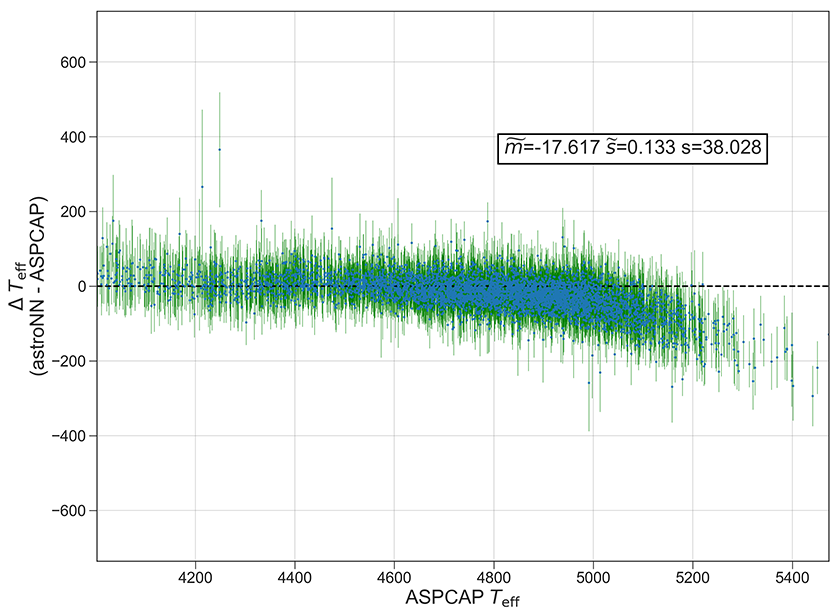
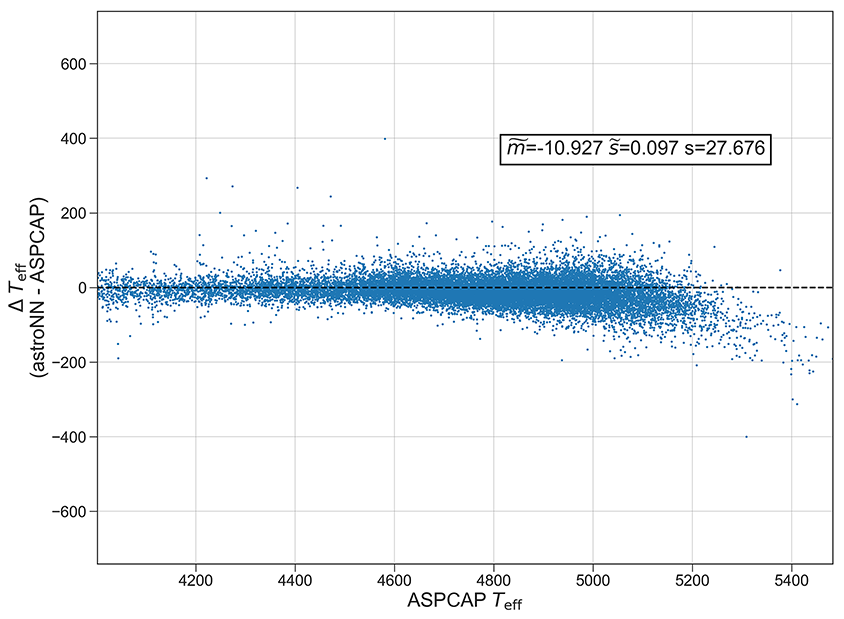
fix shallow copy issue

diff --git a/docs/searchindex.js b/docs/searchindex.js
@@ -1,1 +1,1 @@
-Search.setIndex({docnames:["acknowledgments","astroNN","astroNN.apogee","astroNN.datasets","astroNN.gaia","astroNN.models","compile_datasets","history","index","modules","neuralnets/BCNN","neuralnets/CNN","neuralnets/VAE","neuralnets/neural_network","neuralnets/starnet","neuralnets/vae_demo","quick_start","tools_apogee","tools_gaia"],envversion:53,filenames:["acknowledgments.rst","astroNN.rst","astroNN.apogee.rst","astroNN.datasets.rst","astroNN.gaia.rst","astroNN.models.rst","compile_datasets.rst","history.rst","index.rst","modules.rst","neuralnets\\BCNN.rst","neuralnets\\CNN.rst","neuralnets\\VAE.rst","neuralnets\\neural_network.rst","neuralnets\\starnet.rst","neuralnets\\vae_demo.rst","quick_start.rst","tools_apogee.rst","tools_gaia.rst"],objects:{"":{astroNN:[1,0,0,"-"]},"astroNN.apogee":{apogee_shared:[2,0,0,"-"],cannon:[2,0,0,"-"],chips:[2,0,0,"-"],downloader:[2,0,0,"-"]},"astroNN.apogee.apogee_shared":{apogee_default_dr:[2,1,1,""],apogee_env:[2,1,1,""],apogeeid_digit:[2,1,1,""]},"astroNN.apogee.chips":{chips_pix_info:[2,1,1,""],chips_split:[2,1,1,""],continuum:[2,1,1,""],gap_delete:[2,1,1,""],wavelength_solution:[2,1,1,""]},"astroNN.apogee.downloader":{allstar:[2,1,1,""],allstarcannon:[2,1,1,""],allvisit:[2,1,1,""],apogee_vac_rc:[2,1,1,""],combined_spectra:[2,1,1,""],visit_spectra:[2,1,1,""]},"astroNN.datasets":{apogee_rc:[3,0,0,"-"],apokasc:[3,0,0,"-"],h5:[3,0,0,"-"],xmatch:[3,0,0,"-"]},"astroNN.datasets.apogee_rc":{apogee_rc:[3,1,1,""]},"astroNN.datasets.apokasc":{apokasc_load:[3,1,1,""],apokasc_logg:[3,1,1,""]},"astroNN.datasets.h5":{H5Compiler:[3,2,1,""],H5Loader:[3,2,1,""]},"astroNN.datasets.h5.H5Compiler":{apstar_normalization:[3,3,1,""],compile:[3,3,1,""],filter_apogeeid_list:[3,3,1,""],load_allstar:[3,3,1,""]},"astroNN.datasets.h5.H5Loader":{load:[3,3,1,""]},"astroNN.datasets.xmatch":{xmatch:[3,1,1,""]},"astroNN.gaia":{downloader:[4,0,0,"-"],gaia_shared:[4,0,0,"-"]},"astroNN.gaia.downloader":{anderson_2017_parallax:[4,1,1,""],gaia_source:[4,1,1,""],tgas:[4,1,1,""],tgas_load:[4,1,1,""]},"astroNN.gaia.gaia_shared":{absmag_to_pc:[4,1,1,""],gaia_default_dr:[4,1,1,""],gaia_env:[4,1,1,""],mag_to_absmag:[4,1,1,""]},"astroNN.models":{bayesian_cnn:[5,0,0,"-"],cnn:[5,0,0,"-"],load_folder:[5,1,1,""],models_shared:[5,0,0,"-"],starnet:[5,0,0,"-"],vae:[5,0,0,"-"]},"astroNN.models.bayesian_cnn":{BCNN:[5,2,1,""],DataGenerator:[5,2,1,""],PredictiveEntropy:[5,2,1,""],PredictiveLinear:[5,2,1,""],TimeDistributedMean:[5,2,1,""]},"astroNN.models.bayesian_cnn.BCNN":{compile:[5,3,1,""],create_epistemic_uncertainty_model:[5,3,1,""],model:[5,3,1,""],predict:[5,3,1,""],test:[5,3,1,""],train:[5,3,1,""]},"astroNN.models.bayesian_cnn.DataGenerator":{generate:[5,3,1,""]},"astroNN.models.bayesian_cnn.PredictiveEntropy":{build:[5,3,1,""],call:[5,3,1,""],compute_output_shape:[5,3,1,""]},"astroNN.models.bayesian_cnn.PredictiveLinear":{build:[5,3,1,""],call:[5,3,1,""],compute_output_shape:[5,3,1,""]},"astroNN.models.bayesian_cnn.TimeDistributedMean":{build:[5,3,1,""],call:[5,3,1,""],compute_output_shape:[5,3,1,""]},"astroNN.models.cnn":{CNN:[5,2,1,""],DataGenerator:[5,2,1,""]},"astroNN.models.cnn.CNN":{compile:[5,3,1,""],model:[5,3,1,""],test:[5,3,1,""],train:[5,3,1,""]},"astroNN.models.cnn.DataGenerator":{generate:[5,3,1,""]},"astroNN.models.models_shared":{ModelStandard:[5,2,1,""],target_conversion:[5,1,1,""]},"astroNN.models.models_shared.ModelStandard":{aspcap_residue_plot:[5,3,1,""],bayes_crossentropy_wrapper:[5,3,1,""],categorical_cross_entropy:[5,4,1,""],compile:[5,3,1,""],gaussian_crossentropy:[5,4,1,""],hyperparameter_writer:[5,3,1,""],jacobian:[5,3,1,""],mean_squared_error:[5,4,1,""],model:[5,3,1,""],model_existence:[5,3,1,""],mse_var_wrapper:[5,4,1,""],plot_model:[5,3,1,""],pre_training_checklist:[5,3,1,""],test:[5,3,1,""],train:[5,3,1,""]},"astroNN.models.starnet":{DataGenerator:[5,2,1,""],StarNet:[5,2,1,""]},"astroNN.models.starnet.DataGenerator":{generate:[5,3,1,""]},"astroNN.models.starnet.StarNet":{compile:[5,3,1,""],model:[5,3,1,""],test:[5,3,1,""],train:[5,3,1,""]},"astroNN.models.vae":{CustomVariationalLayer:[5,2,1,""],DataGenerator:[5,2,1,""],VAE:[5,2,1,""]},"astroNN.models.vae.CustomVariationalLayer":{call:[5,3,1,""],vae_loss:[5,4,1,""]},"astroNN.models.vae.DataGenerator":{generate:[5,3,1,""]},"astroNN.models.vae.VAE":{compile:[5,3,1,""],model:[5,3,1,""],plot_latent:[5,3,1,""],sampling:[5,3,1,""],test:[5,3,1,""],test_encoder:[5,3,1,""],train:[5,3,1,""]},astroNN:{apogee:[2,0,0,"-"],datasets:[3,0,0,"-"],gaia:[4,0,0,"-"],models:[5,0,0,"-"]}},objnames:{"0":["py","module","Python module"],"1":["py","function","Python function"],"2":["py","class","Python class"],"3":["py","method","Python method"],"4":["py","staticmethod","Python static method"]},objtypes:{"0":"py:module","1":"py:function","2":"py:class","3":"py:method","4":"py:staticmethod"},terms:{"2gb":16,"2m00003088":16,"2m21353892":16,"8000s":2,"8gb":16,"case":[6,10,11,12,13],"class":[3,5],"default":[2,4,5,6,10,11,14,17],"final":7,"float":4,"function":[7,16,17],"import":[3,6,7,10,11,12,13,14,17,18],"int":[2,4],"long":6,"new":7,"return":[2,4,18],"static":5,"true":[5,6,10,11],And:[10,11,12,14],But:[10,11],For:[6,8,10,16,17,18],SAS:16,The:[2,7,16],__path__:17,_contmask:17,_run:13,abc:5,abov:16,absmag:4,absmag_to_pc:4,absolut:4,abund:[2,6],access:[7,13,17],accord:2,account:3,acknowledg:8,activ:[8,10,11,16],adavantag:7,add:7,added:7,after:[8,10,11,12,16],aka:[10,11],aleator:7,all:[6,7,10,11],allstar:[2,16],allstarcannon:[2,16],allstarcanon:2,allvisit:[2,16],alpha:6,also:[6,10,11],althought:[10,11,12],alwai:16,amd:16,amount:[17,18],anaconda:16,analysi:[0,7,8],analysisa:7,anderson:[0,4,6],anderson_2017_parallax:[0,4,18],angular:3,ani:[6,10,11,12],api:7,apo1m:16,apo25m:16,apoge:[1,8,9,16],apogee_chip:2,apogee_cnn_model_1:7,apogee_default_dr:2,apogee_dr:6,apogee_env:2,apogee_id:2,apogee_rc:[1,9],apogee_rc_absmag:3,apogee_shar:[1,9],apogee_train:7,apogee_vac_rc:2,apogeeid:2,apogeeid_digit:2,apokasc:[1,7,9],apokasc_load:3,apokasc_logg:3,appar:6,appear:4,applic:8,approx:6,apstar:16,apstar_norm:3,apstarwavegrid:2,archetitur:7,architectur:[5,16],arcsec:3,arg:5,arguement:[2,4],arr:2,arrai:[2,4,6,11],arxiv:[0,5,6,7,8],ascens:3,aspcap:[2,6,10,12],aspcap_residue_plot:5,aspcapflagcut:6,aspcapstar:16,assum:3,astronn:[0,6,7,11,12,14,16,17,18],astronn_0101_run001:[10,11,12,13],astronn_:13,astronn_neuralnet:13,astronn_tutori:7,astronom:8,astronomi:8,astroqueri:16,attent:7,attribut:6,autoencod:[5,8],automat:13,avali:6,avx2:16,backend:16,background:2,backpropag:8,band:18,base:[0,3,5],basic:[7,16],batch_siz:[5,10,11],bayes_crossentropy_wrapp:5,bayesian:[0,5,8,12],bayesian_cnn:[1,9],bcnn:[5,10],bcnn_net:10,becaus:[2,10,11],befor:[6,7,17],below:[6,16],best:[2,12],beta:16,better:7,between:[2,3,17],bit:16,blackbox:7,blue:2,bnn:10,bolean:4,bound:6,bovi:[0,2,3,8,16,17,18],braindead:7,bug:7,build:5,cal_jacobian:5,calcul:[5,7,11],call:[5,10,11,12],camera:2,can:[6,8,10,11,12,13,14,17],cannon:[1,7,9,16],card:16,care:17,cat1:3,cat2:3,catalog:[2,3,7],catalogu:2,categorical_cross_entropi:5,ccd:2,channel:7,chebyshev:[2,7],check:[2,3,4,7],chip:[1,9,17],chips_pix_info:2,chips_split:2,circular:7,classif:[10,11],classs:[10,11,12,14],closest:3,clump:[2,3,7],cnn:[1,9,10],cnn_net:[],code:[7,13,16],coldec1:3,coldec2:3,colpmdec2:3,colpmra2:3,colra1:3,colra2:3,combin:[2,6],combined_spectra:2,command:[8,16],commit:7,compact:4,comparison:7,compat:16,compil:[3,5,7,8,17],comprehans:[17,18],compute_output_shap:5,con_mask:17,consist:16,cont_mask:[2,6,17],contact:8,contain:[3,6,10,11,17,18],content:9,continu:13,continuum:[2,6,7],convert:4,convolut:[5,8],coordin:3,cos:3,cpu:[6,7,16],creact:7,creat:[3,5,6,7,10,11,12,14,16],create_epistemic_uncertainty_model:5,critic:7,cross:3,cuda:16,cudnn:16,current:[6,7],customvariationallay:5,dai:13,daili:[8,16],data:[0,4,5,6,7,8,10,11,12,16],data_norm:[10,11],datagener:5,dataset:[1,8,9,10,11,12,17],deal:[2,16,17,18],dec:[2,3,4,5,7,18],declin:3,dedic:16,deep:[8,10],defin:5,definit:10,defintiion:6,deg:[2,17],degre:[2,3],delel:17,delet:2,demo:[7,8],demonstr:10,denorm:[10,11],dens:[10,11,12],depend:[7,13,16],deriv:[10,11],detail:[6,10,13],detect:13,develop:[8,16],diagnost:7,differ:[3,16],digit:2,dim:5,dir:17,directli:17,directori:16,dirnam:17,disabl:[10,11],disgnost:7,dist:5,distanc:3,doe:11,doing:[10,11,13],dont:[10,11],download:[1,7,8,9,18],dpi:12,dr13:[7,16],dr14:[8,16],dr1:[7,8,18],driven:[0,4,6],dropout:[7,10,12],dropout_r:[10,11],dummi:6,duplic:3,each:[2,3,13],effect:6,either:12,end:2,engin:5,enviro:[2,4],environ:16,epistemic_monte_carlo_simul:5,epoch1:3,epoch2:3,epoch:[3,10,11,12],err_info:6,error:[2,6,11,18],esa:6,especi:[10,12],estim:11,everi:[10,16],everyth:17,exact:5,exampl:[2,4],exclud:6,exclude9999:6,experiment:7,extract:2,fabbro:[0,5],fakemag:6,fallback:7,fallback_cpu:[10,11],fals:[3,4,6,10,11,12],far:2,featur:[10,11],feed:[10,11,12],fig:12,figsiz:12,figur:12,file:[2,4,6,17,18],filenam:[3,6],files_path:18,filter:6,filter_apogeeid_list:3,filter_length:[10,11],find:3,fine:13,first:[3,10,11,12,17],fisrt:2,fit:[2,16,17],fix:[7,16],flag:6,flux:[2,12],flux_var:2,focu:[10,11,12],folder:[3,5,7,8,10,11,12],folder_nam:3,follow:[8,13,16],fontsiz:12,footprint:7,format:17,from:[2,3,4,5,6,8,11,12,13,14,17],full:2,g_mag:18,gaia:[0,1,3,7,8,9,16],gaia_default_dr:4,gaia_dr:6,gaia_env:4,gaia_shar:[1,9],gaia_sourc:4,gaia_tool:[3,16,18],gaia_tools_data:[16,18],gal:0,galact:8,gap:[2,17],gap_delet:[2,17],gaussian_crossentropi:5,gener:[5,7],get:[2,4,12],github:8,golden:7,gpu:[7,16],graphic:16,graphviz:16,graviti:[3,7],green:2,gtx900:16,guid:16,h5_filenam:6,h5compil:[3,6,17],h5loader:[3,6,10,11,12],h5name:3,h5py:2,h5view:6,handl:6,has:[3,6,8],have:[2,8,10,11,17],hdulist:3,he_norm:[10,11],henri:[0,2,3,4,5,8],henryski:8,henryskyleung:8,here:[6,10,11,16],high:7,hip:16,his:0,histori:[2,3,4,5,8],holidai:7,how:16,hyperparamet:[7,14],hyperparameter_writ:5,icr:3,ignor:[16,17],implement:[5,8],improv:[0,4,6],incl:3,includ:[3,6,7],incomplet:8,independ:7,index:[3,8],individu:[2,6],infer:13,info:[2,4,7],inform:6,initi:[7,8,10,11],inpput:7,input:[2,3,4,5,10,11],input_shap:5,inspect:6,inspir:0,instal:[8,16],instruct:16,integr:7,intel:16,invers:10,ironlow:6,issu:[7,16],its:[2,8,10,11],j2015:18,jacobia:7,jacobian:5,jobovi:[0,8],join:17,jupyt:7,just:[2,4,16,17],kera:[3,5,16],kind:8,kwarg:5,l30e:16,l31c:16,label:[6,8,10,12],labels:12,latent_space_valu:12,later:16,layer:[5,10,11,12],learn:[6,8,10],least:16,legend:12,length:[10,11,12],length_scal:[10,11],less:7,leung:[0,2,3,4,5,8],level:16,like:13,limit:[17,18],limit_gpu_mem:[10,11],lin:5,line:[8,16],linewidth:12,linux:16,list:[2,10,11,18],load:[3,4,5,8,10,11,12,17,18],load_allstar:3,load_combin:[6,10,11,12],load_fold:[5,10,11,12,13],loader2:[10,11,12],loader:[6,10,11,12],loc:12,locat:2,logg:6,look:8,loop:7,lower:6,mag:[4,18],mag_to_absmag:4,magnitud:[4,6],mail:8,make:[10,11,17],manag:7,mask:[2,6,17],match:3,max_epoch:[10,11,12],maxdist:3,maximum:3,mean:[6,8],mean_squared_error:5,measur:3,memori:7,method:[6,8,10,11,12,13,16],milkywai:7,mine:2,mini:8,mirror:16,miss:[10,11],mode:4,model:[0,1,3,4,6,7,9,10,11,12,13,14,16],model_exist:5,model_select:6,models_shar:[1,9],modelstandard:5,modif:3,modul:[7,8,9],month:13,more:[6,7,10,11,12,13,17,18],motion:3,mse_var_wrapp:5,multi:[7,16],multipl:4,name:[2,3,4,5,6,13],ndarai:2,ndarrai:[2,4],neccessari:[16,17,18],need:13,net:[10,11,12],network:[0,5,7,8,12,16],neural:[0,5,7,8,12,16],nngalaxi:7,nois:7,none:[2,3,4,5,6,17],normal:[2,6,7,10,11,12],notebook:7,notic:3,nov:[2,3,4,5,7],now:8,npy:[0,17],num_class:5,num_filt:[10,11],num_hidden:[10,11],number:13,numpi:[11,17],nvidia:16,object:[3,5,6,7,10,11,12,13,14],obsolet:7,oct:[2,4,7],offici:16,one:3,onli:[2,3,6,7,8,10,11,12,16,17,18],open:[8,16],oper:16,opposit:3,option:[7,16],orient:7,origin:[2,14],other:16,out:6,output:[2,3,4,5,10,11],over:6,packag:[8,9,16],page:[7,8],pain:2,paper:[0,5,14],par:18,par_var:18,para_var:18,parallax:[0,4,6],paramet:[2,4,5,10,11],parsec:4,particular:8,path:[2,4,7,17,18],per:6,perform:7,pesudo:6,pixel:[2,7,12],place:16,plan:17,platform:7,pleas:[3,8,10,11,16,17,18],plot:[3,5,7,16],plot_lat:5,plot_model:5,plt:12,pmdec:[3,18],pmra:[3,18],polynomi:[2,7],pool_length:[10,11],pre_training_checklist:5,precis:[0,3,10],pred:[5,10,11],pred_var:10,predict:[5,10],predictiveentropi:5,predictivelinear:5,prepar:7,prior:[10,11],prioriti:6,professor:8,project:[0,8,16],propag:[7,11],proper:3,properti:2,prototyp:10,provid:[2,4,8,10],purpos:[2,3,4,5],pydot_ng:16,pylab:12,python:[8,16,17,18],quick:[10,11,12],ram:[7,16],real:6,recommand:16,recommend:[6,8,16],reconstruct:[],red:[2,3,7],reduc:7,reduce_lr_epsilon:[10,11],reduce_lr_min:[10,11],reduce_lr_pati:[10,11],reduct:7,redux:16,refactor:7,refer:[13,16,17,18],refractor:7,region:2,regress:[10,11],regular:10,relu:[10,11],remov:7,replac:[6,13],repres:[10,11],represent:12,requir:[2,16],research:8,residu:[10,11],result:[2,3,6,10,11,12],rgb:2,right:3,risk:11,root:16,run:[2,8,13,16],same:[2,5,14,16],sampl:5,save:7,scale:[10,11],scatter:6,scikit:6,sdss:[8,16],sdss_local_sas_mirror:16,search:8,second:[3,6],section:[8,17],see:[8,10,11],select:16,sensit:[10,11],separ:3,sepctra:6,seper:4,seri:16,set:[6,10,11,12,16],setup:[8,16],shape:[2,11],should:[6,10,11,12,13,16],shown:6,shuffl:5,similar:16,sinc:[10,11],singl:[2,4],sklearn:6,snr:6,snr_high:6,snr_low:6,solut:2,some:[7,8,13,16],someth:13,sourc:3,spec:17,spec_var:17,special:12,specifi:[2,10,11],spectra:[2,3,6,7],spectra_err:3,spectra_onli:6,spectra_recon:12,spectra_var:[2,17],spectro:16,spectrum:2,split:[2,6],standard:5,star:[0,4,6,16],starflagcut:6,starnet:[0,1,7,8,9,12],starnet_net:14,start:2,stellar:[2,8],still:[8,16],store:16,str:4,structur:7,submodul:[1,9],subpackag:9,subset:8,supervisor:[0,8],suppli:11,support:16,sure:[10,11,17],surfac:[3,7],swap:3,system:16,tag:3,take:[6,7,17],target:[5,6,8,10,11],target_convers:5,task:[10,11],teff:6,teff_high:6,teff_low:6,tensorflow:16,test:[5,6,7,10,11,12,13,16],test_encod:[5,12],test_label:5,test_pred_error:5,test_predict:5,test_siz:6,tga:4,tgas_load:[4,18],tgas_sourc:16,tgassource_000:16,them:[4,6,8,10,11],theori:[10,11,12],thi:[0,5,8,10,11,12,13,16,17],those:[8,10,11,18],thread:[6,7],ti2:6,tick_param:12,time:6,timedistributedmean:5,too:2,tool:[2,8,16],top:16,topolog:5,toronto:[2,3,4,5,8],tqdm:16,train:[5,6,7,8,10,11,12,13],train_test_split:6,transist:7,tune:13,tutori:[7,10,11,12,13],two:3,type:13,uncertainti:[0,2,7,8,11],under:16,undergrad:8,undergradu:8,undistorted_loss:5,univers:[2,3,4,5,8],unnessari:7,uoft:3,updat:[2,4,5,8,16],upper:6,usag:7,use:[2,3,4,6,10,11,12,13,16,17],use_anderson_2017:6,use_apoge:6,use_esa_gaia:6,used:[3,16],useful:4,uses:10,using:[6,8,16,17],utoronto:8,vae:[1,9],vae_loss:5,vae_net:12,valu:[2,11,12],variabl:[2,4,6,16],variat:[5,8],variou:8,vcnn:[],veloc:6,verbos:2,via:[7,10,11,12,14],visit:[2,6],visit_spectra:2,visual:7,volta:16,vram:16,vscattercut:6,want:[3,10,11],wavelegnth_solut:2,wavelength:2,wavelength_solut:2,websit:16,when:[3,17],where:[10,11],whether:[4,6],which:[2,10,11,13,16],width:12,window:[8,16],without:[2,6],won:16,work:[2,8],written:[2,3,4,5],wrong:7,x_data:5,x_decoded_mean:5,x_re:12,x_test:[6,10,11,12,13],x_train:[6,10,11,12],xlabel:12,xma:7,xmatch:[1,9],y_data:5,y_pred:5,y_test:[6,10,11,12,13],y_train:[6,10,11,12],y_true:5,year:7,ylabel:12,you:[3,6,8,10,11,12,13,14,16,17],your:6,yourself:[10,11],z_log_var:5,z_mean:5,zero:11},titles:["Acknowledgments","astroNN package","astroNN.apogee package","astroNN.datasets package","astroNN.gaia package","astroNN.models package","Compiling and Loading APOGEE and Gaia Datasets","Updates History","Welcome to astroNN's documentation!","astroNN","Bayesian Convolutional Neural Network","Convolutional Neural Network","Convolutional Variational Autoencoder","Neural Network","StarNet (arXiv:1709.09182)","Variational Autoencoder Demo","Getting Started","Mini Tools for APOGEE data","Mini Tools for GAIA data"],titleterms:{The:11,acknowledg:0,analysi:[10,11,12],anderson:18,apoge:[2,6,10,11,12,17],apogee_rc:3,apogee_shar:2,apokasc:3,arxiv:14,aspcap:11,aspcap_residue_plot:[10,11],astronn:[1,2,3,4,5,8,9,10,13],author:8,autoencod:[12,15],bayesian:10,bayesian_cnn:5,calcul:10,cannon:[2,11],chip:2,cnn:[5,11],compil:6,content:[1,2,3,4,5],continuum:17,convolut:[10,11,12],data:[17,18],dataset:[3,6],demo:15,demonstr:8,document:8,doe:10,donwnload:18,download:[2,4],driven:18,exampl:[10,11,12],folder:[13,16],from:[10,18],gaia:[4,6,18],gaia_shar:4,gener:13,get:[8,16],histori:7,how:10,improv:18,indic:8,jacobian:[10,11],label:11,latent:12,list:8,load:[6,13],loader:18,mini:[17,18],model:[5,18],models_shar:5,modul:[1,2,3,4,5],network:[10,11,13],neural:[10,11,13],normal:17,packag:[1,2,3,4,5],parallax:18,pesudo:17,plot:[10,11,12],plot_lat:12,predict:11,prerequisit:16,reconstruct:12,space:12,spectra:[10,11,12,17],star:18,starnet:[5,14],start:[8,16],structur:16,submodul:[2,3,4,5],subpackag:1,tabl:8,tga:18,tool:[17,18],tutori:8,uncertainti:10,updat:7,using:[10,11,12],vae:[5,12],variat:[12,15],welcom:8,xmatch:3}})
+Search.setIndex({docnames:["acknowledgments","astroNN","astroNN.apogee","astroNN.datasets","astroNN.gaia","astroNN.models","compile_datasets","history","index","modules","neuralnets/BCNN","neuralnets/CNN","neuralnets/VAE","neuralnets/neural_network","neuralnets/starnet","neuralnets/vae_demo","quick_start","tools_apogee","tools_gaia"],envversion:53,filenames:["acknowledgments.rst","astroNN.rst","astroNN.apogee.rst","astroNN.datasets.rst","astroNN.gaia.rst","astroNN.models.rst","compile_datasets.rst","history.rst","index.rst","modules.rst","neuralnets\\BCNN.rst","neuralnets\\CNN.rst","neuralnets\\VAE.rst","neuralnets\\neural_network.rst","neuralnets\\starnet.rst","neuralnets\\vae_demo.rst","quick_start.rst","tools_apogee.rst","tools_gaia.rst"],objects:{"":{astroNN:[1,0,0,"-"]},"astroNN.apogee":{apogee_shared:[2,0,0,"-"],cannon:[2,0,0,"-"],chips:[2,0,0,"-"],downloader:[2,0,0,"-"]},"astroNN.apogee.apogee_shared":{apogee_default_dr:[2,1,1,""],apogee_env:[2,1,1,""],apogeeid_digit:[2,1,1,""]},"astroNN.apogee.chips":{chips_pix_info:[2,1,1,""],chips_split:[2,1,1,""],continuum:[2,1,1,""],gap_delete:[2,1,1,""],wavelength_solution:[2,1,1,""]},"astroNN.apogee.downloader":{allstar:[2,1,1,""],allstarcannon:[2,1,1,""],allvisit:[2,1,1,""],apogee_vac_rc:[2,1,1,""],combined_spectra:[2,1,1,""],visit_spectra:[2,1,1,""]},"astroNN.datasets":{apogee_rc:[3,0,0,"-"],apokasc:[3,0,0,"-"],h5:[3,0,0,"-"],xmatch:[3,0,0,"-"]},"astroNN.datasets.apogee_rc":{apogee_rc:[3,1,1,""]},"astroNN.datasets.apokasc":{apokasc_load:[3,1,1,""],apokasc_logg:[3,1,1,""]},"astroNN.datasets.h5":{H5Compiler:[3,2,1,""],H5Loader:[3,2,1,""]},"astroNN.datasets.h5.H5Compiler":{apstar_normalization:[3,3,1,""],compile:[3,3,1,""],filter_apogeeid_list:[3,3,1,""],load_allstar:[3,3,1,""]},"astroNN.datasets.h5.H5Loader":{load:[3,3,1,""]},"astroNN.datasets.xmatch":{xmatch:[3,1,1,""]},"astroNN.gaia":{downloader:[4,0,0,"-"],gaia_shared:[4,0,0,"-"]},"astroNN.gaia.downloader":{anderson_2017_parallax:[4,1,1,""],gaia_source:[4,1,1,""],tgas:[4,1,1,""],tgas_load:[4,1,1,""]},"astroNN.gaia.gaia_shared":{absmag_to_pc:[4,1,1,""],gaia_default_dr:[4,1,1,""],gaia_env:[4,1,1,""],mag_to_absmag:[4,1,1,""]},"astroNN.models":{bayesian_cnn:[5,0,0,"-"],cnn:[5,0,0,"-"],load_folder:[5,1,1,""],models_shared:[5,0,0,"-"],starnet:[5,0,0,"-"],vae:[5,0,0,"-"]},"astroNN.models.bayesian_cnn":{BCNN:[5,2,1,""],DataGenerator:[5,2,1,""],PredictiveEntropy:[5,2,1,""],PredictiveLinear:[5,2,1,""],TimeDistributedMean:[5,2,1,""]},"astroNN.models.bayesian_cnn.BCNN":{compile:[5,3,1,""],create_epistemic_uncertainty_model:[5,3,1,""],model:[5,3,1,""],predict:[5,3,1,""],test:[5,3,1,""],train:[5,3,1,""]},"astroNN.models.bayesian_cnn.DataGenerator":{generate:[5,3,1,""]},"astroNN.models.bayesian_cnn.PredictiveEntropy":{build:[5,3,1,""],call:[5,3,1,""],compute_output_shape:[5,3,1,""]},"astroNN.models.bayesian_cnn.PredictiveLinear":{build:[5,3,1,""],call:[5,3,1,""],compute_output_shape:[5,3,1,""]},"astroNN.models.bayesian_cnn.TimeDistributedMean":{build:[5,3,1,""],call:[5,3,1,""],compute_output_shape:[5,3,1,""]},"astroNN.models.cnn":{CNN:[5,2,1,""],DataGenerator:[5,2,1,""]},"astroNN.models.cnn.CNN":{compile:[5,3,1,""],model:[5,3,1,""],test:[5,3,1,""],train:[5,3,1,""]},"astroNN.models.cnn.DataGenerator":{generate:[5,3,1,""]},"astroNN.models.models_shared":{ModelStandard:[5,2,1,""],target_conversion:[5,1,1,""]},"astroNN.models.models_shared.ModelStandard":{aspcap_residue_plot:[5,3,1,""],bayes_crossentropy_wrapper:[5,3,1,""],categorical_cross_entropy:[5,4,1,""],compile:[5,3,1,""],gaussian_crossentropy:[5,4,1,""],hyperparameter_writer:[5,3,1,""],jacobian:[5,3,1,""],mean_squared_error:[5,4,1,""],model:[5,3,1,""],model_existence:[5,3,1,""],mse_var_wrapper:[5,4,1,""],plot_model:[5,3,1,""],pre_training_checklist:[5,3,1,""],test:[5,3,1,""],train:[5,3,1,""]},"astroNN.models.starnet":{DataGenerator:[5,2,1,""],StarNet:[5,2,1,""]},"astroNN.models.starnet.DataGenerator":{generate:[5,3,1,""]},"astroNN.models.starnet.StarNet":{compile:[5,3,1,""],model:[5,3,1,""],test:[5,3,1,""],train:[5,3,1,""]},"astroNN.models.vae":{CustomVariationalLayer:[5,2,1,""],DataGenerator:[5,2,1,""],VAE:[5,2,1,""]},"astroNN.models.vae.CustomVariationalLayer":{call:[5,3,1,""],vae_loss:[5,4,1,""]},"astroNN.models.vae.DataGenerator":{generate:[5,3,1,""]},"astroNN.models.vae.VAE":{compile:[5,3,1,""],model:[5,3,1,""],plot_latent:[5,3,1,""],sampling:[5,3,1,""],test:[5,3,1,""],test_encoder:[5,3,1,""],train:[5,3,1,""]},astroNN:{apogee:[2,0,0,"-"],datasets:[3,0,0,"-"],gaia:[4,0,0,"-"],models:[5,0,0,"-"]}},objnames:{"0":["py","module","Python module"],"1":["py","function","Python function"],"2":["py","class","Python class"],"3":["py","method","Python method"],"4":["py","staticmethod","Python static method"]},objtypes:{"0":"py:module","1":"py:function","2":"py:class","3":"py:method","4":"py:staticmethod"},terms:{"2gb":16,"2m00003088":16,"2m21353892":16,"8000s":2,"8gb":16,"case":[6,10,11,12,13],"class":[3,5],"default":[2,4,5,6,10,11,14,17],"final":7,"float":4,"function":[7,16,17],"import":[3,6,7,10,11,12,13,14,17,18],"int":[2,4],"long":6,"new":7,"return":[2,4,18],"static":5,"true":[5,6,10,11],And:[10,11,12,14],But:[10,11],For:[6,8,10,16,17,18],SAS:16,The:[2,7,16],__path__:17,_contmask:17,_run:13,abc:5,abov:16,absmag:4,absmag_to_pc:4,absolut:4,abund:[2,6],access:[7,13,17],accord:2,account:3,acknowledg:8,activ:[8,10,11,16],adavantag:7,add:7,added:7,after:[8,10,11,12,16],aka:[10,11],aleator:7,all:[6,7,10,11],allstar:[2,16],allstarcannon:[2,16],allstarcanon:2,allvisit:[2,16],alpha:6,also:[6,10,11],althought:[10,11,12],alwai:16,amd:16,amount:[17,18],anaconda:16,analysi:[0,7,8],analysisa:7,anderson:[0,4,6],anderson_2017_parallax:[0,4,18],angular:3,ani:[6,10,11,12],api:7,apo1m:16,apo25m:16,apoge:[1,8,9,16],apogee_chip:2,apogee_cnn_model_1:7,apogee_default_dr:2,apogee_dr:6,apogee_env:2,apogee_id:2,apogee_rc:[1,9],apogee_rc_absmag:3,apogee_shar:[1,9],apogee_train:7,apogee_vac_rc:2,apogeeid:2,apogeeid_digit:2,apokasc:[1,7,9],apokasc_load:3,apokasc_logg:3,appar:6,appear:4,applic:8,approx:6,apstar:16,apstar_norm:3,apstarwavegrid:2,archetitur:7,architectur:[5,16],arcsec:3,arg:5,arguement:[2,4],arr:2,arrai:[2,4,6,11],arxiv:[0,5,6,7,8],ascens:3,aspcap:[2,6,10,12],aspcap_residue_plot:5,aspcapflagcut:6,aspcapstar:16,assum:3,astronn:[0,6,7,11,12,14,16,17,18],astronn_0101_run001:[10,11,12,13],astronn_:13,astronn_neuralnet:13,astronn_tutori:7,astronom:8,astronomi:8,astroqueri:16,attent:7,attribut:6,autoencod:[5,8],automat:13,avali:6,avx2:16,backend:16,background:2,backpropag:8,band:18,base:[0,3,5],basic:[7,16],batch_siz:[5,10,11],bayes_crossentropy_wrapp:5,bayesian:[0,5,8,12],bayesian_cnn:[1,9],bcnn:[5,10],bcnn_net:10,becaus:[2,10,11],befor:[6,7,17],below:[6,16],best:[2,12],beta:16,better:7,between:[2,3,17],bit:16,blackbox:7,blue:2,bnn:10,bolean:4,bound:6,bovi:[0,2,3,8,16,17,18],braindead:7,bug:7,build:5,cal_jacobian:5,calcul:[5,7,11],call:[5,10,11,12],camera:2,can:[6,8,10,11,12,13,14,17],cannon:[1,7,9,16],card:16,care:17,cat1:3,cat2:3,catalog:[2,3,7],catalogu:2,categorical_cross_entropi:5,ccd:2,channel:7,chebyshev:[2,7],check:[2,3,4,7],chip:[1,9,17],chips_pix_info:2,chips_split:2,circular:7,classif:[10,11],classs:[10,11,12,14],closest:3,clump:[2,3,7],cnn:[1,9,10],code:[7,13,16],coldec1:3,coldec2:3,colpmdec2:3,colpmra2:3,colra1:3,colra2:3,combin:[2,6],combined_spectra:2,command:[8,16],commit:7,compact:4,comparison:7,compat:16,compil:[3,5,7,8,17],comprehans:[17,18],compute_output_shap:5,con_mask:17,consist:16,cont_mask:[2,6,17],contact:8,contain:[3,6,10,11,17,18],content:9,continu:13,continuum:[2,6,7],convert:4,convolut:[5,8],coordin:3,cos:3,cpu:[6,7,16],creact:7,creat:[3,5,6,7,10,11,12,14,16],create_epistemic_uncertainty_model:5,critic:7,cross:3,cuda:16,cudnn:16,current:[6,7],customvariationallay:5,dai:13,daili:[8,16],data:[0,4,5,6,7,8,10,11,12,16],data_norm:[10,11],datagener:5,dataset:[1,8,9,10,11,12,17],deal:[2,16,17,18],dec:[2,3,4,5,7,18],declin:3,dedic:16,deep:[8,10],defin:5,definit:10,defintiion:6,deg:[2,17],degre:[2,3],delel:17,delet:2,demo:[7,8],demonstr:10,denorm:[10,11],dens:[10,11,12],depend:[7,13,16],deriv:[10,11],detail:[6,10,13],detect:13,develop:[8,16],diagnost:7,differ:[3,16],digit:2,dim:5,dir:17,directli:17,directori:16,dirnam:17,disabl:[10,11],disgnost:7,dist:5,distanc:3,doe:11,doing:[10,11,13],dont:[10,11],download:[1,7,8,9,18],dpi:12,dr13:[7,16],dr14:[8,16],dr1:[7,8,18],driven:[0,4,6],dropout:[7,10,12],dropout_r:[10,11],dummi:6,duplic:3,each:[2,3,13],effect:6,either:12,end:2,engin:5,enviro:[2,4],environ:16,epistemic_monte_carlo_simul:5,epoch1:3,epoch2:3,epoch:[3,10,11,12],err_info:6,error:[2,6,11,18],esa:6,especi:[10,12],estim:11,everi:[10,16],everyth:17,exact:5,exampl:[2,4],exclud:6,exclude9999:6,experiment:7,extract:2,fabbro:[0,5],fakemag:6,fallback:7,fallback_cpu:[10,11],fals:[3,4,6,10,11,12],far:2,featur:[10,11],feed:[10,11,12],fig:12,figsiz:12,figur:12,file:[2,4,6,17,18],filenam:[3,6],files_path:18,filter:6,filter_apogeeid_list:3,filter_length:[10,11],find:3,fine:13,first:[3,10,11,12,17],fisrt:2,fit:[2,16,17],fix:[7,16],flag:6,flux:[2,12],flux_var:2,focu:[10,11,12],folder:[3,5,7,8,10,11,12],folder_nam:3,follow:[8,13,16],fontsiz:12,footprint:7,format:17,from:[2,3,4,5,6,8,11,12,13,14,17],full:2,g_mag:18,gaia:[0,1,3,7,8,9,16],gaia_default_dr:4,gaia_dr:6,gaia_env:4,gaia_shar:[1,9],gaia_sourc:4,gaia_tool:[3,16,18],gaia_tools_data:[16,18],gal:0,galact:8,gap:[2,17],gap_delet:[2,17],gaussian_crossentropi:5,gener:[5,7],get:[2,4,12],github:8,golden:7,gpu:[7,16],graphic:16,graphviz:16,graviti:[3,7],green:2,gtx900:16,guid:16,h5_filenam:6,h5compil:[3,6,17],h5loader:[3,6,10,11,12],h5name:3,h5py:2,h5view:6,handl:6,has:[3,6,8],have:[2,8,10,11,17],hdulist:3,he_norm:[10,11],henri:[0,2,3,4,5,8],henryski:8,henryskyleung:8,here:[6,10,11,16],high:7,hip:16,his:0,histori:[2,3,4,5,8],holidai:7,how:16,hyperparamet:[7,14],hyperparameter_writ:5,icr:3,ignor:[16,17],implement:[5,8],improv:[0,4,6],incl:3,includ:[3,6,7],incomplet:8,independ:7,index:[3,8],individu:[2,6],infer:13,info:[2,4,7],inform:6,initi:[7,8,10,11],inpput:7,input:[2,3,4,5,10,11],input_shap:5,inspect:6,inspir:0,instal:[8,16],instruct:16,integr:7,intel:16,invers:10,ironlow:6,issu:[7,16],its:[2,8,10,11],j2015:18,jacobia:7,jacobian:5,jobovi:[0,8],join:17,jupyt:7,just:[2,4,16,17],kera:[3,5,16],kind:8,kwarg:5,l30e:16,l31c:16,label:[6,8,10,12],labels:12,latent_space_valu:12,later:16,layer:[5,10,11,12],learn:[6,8,10],least:16,legend:12,length:[10,11,12],length_scal:[10,11],less:7,leung:[0,2,3,4,5,8],level:16,like:13,limit:[17,18],limit_gpu_mem:[10,11],lin:5,line:[8,16],linewidth:12,linux:16,list:[2,10,11,18],load:[3,4,5,8,10,11,12,17,18],load_allstar:3,load_combin:[6,10,11,12],load_fold:[5,10,11,12,13],loader2:[10,11,12],loader:[6,10,11,12],loc:12,locat:2,logg:6,look:8,loop:7,lower:6,mag:[4,18],mag_to_absmag:4,magnitud:[4,6],mail:8,make:[10,11,17],manag:7,mask:[2,6,17],match:3,max_epoch:[10,11,12],maxdist:3,maximum:3,mean:[6,8],mean_squared_error:5,measur:3,memori:7,method:[6,8,10,11,12,13,16],milkywai:7,mine:2,mini:8,mirror:16,miss:[10,11],mode:4,model:[0,1,3,4,6,7,9,10,11,12,13,14,16],model_exist:5,model_select:6,models_shar:[1,9],modelstandard:5,modif:3,modul:[7,8,9],month:13,more:[6,7,10,11,12,13,17,18],motion:3,mse_var_wrapp:5,multi:[7,16],multipl:4,name:[2,3,4,5,6,13],ndarai:2,ndarrai:[2,4],neccessari:[16,17,18],need:13,net:[10,11,12],network:[0,5,7,8,12,16],neural:[0,5,7,8,12,16],nngalaxi:7,nois:7,none:[2,3,4,5,6,17],normal:[2,6,7,10,11,12],notebook:7,notic:3,nov:[2,3,4,5,7],now:8,npy:[0,17],num_class:5,num_filt:[10,11],num_hidden:[10,11],number:13,numpi:[11,17],nvidia:16,object:[3,5,6,7,10,11,12,13,14],obsolet:7,oct:[2,4,7],offici:16,one:3,onli:[2,3,6,7,8,10,11,12,16,17,18],open:[8,16],oper:16,opposit:3,option:[7,16],orient:7,origin:[2,14],other:16,out:6,output:[2,3,4,5,10,11],over:6,packag:[8,9,16],page:[7,8],pain:2,paper:[0,5,14],par:18,par_var:18,para_var:18,parallax:[0,4,6],paramet:[2,4,5,10,11],parsec:4,particular:8,path:[2,4,7,17,18],per:6,perform:7,pesudo:6,pixel:[2,7,12],place:16,plan:17,platform:7,pleas:[3,8,10,11,16,17,18],plot:[3,5,7,16],plot_lat:5,plot_model:5,plt:12,pmdec:[3,18],pmra:[3,18],polynomi:[2,7],pool_length:[10,11],pre_training_checklist:5,precis:[0,3,10],pred:[5,10,11],pred_var:10,predict:[5,10],predictiveentropi:5,predictivelinear:5,prepar:7,prior:[10,11],prioriti:6,professor:8,project:[0,8,16],propag:[7,11],proper:3,properti:2,prototyp:10,provid:[2,4,8,10],purpos:[2,3,4,5],pydot_ng:16,pylab:12,python:[8,16,17,18],quick:[10,11,12],ram:[7,16],real:6,recommand:16,recommend:[6,8,16],red:[2,3,7],reduc:7,reduce_lr_epsilon:[10,11],reduce_lr_min:[10,11],reduce_lr_pati:[10,11],reduct:7,redux:16,refactor:7,refer:[13,16,17,18],refractor:7,region:2,regress:[10,11],regular:10,relu:[10,11],remov:7,replac:[6,13],repres:[10,11],represent:12,requir:[2,16],research:8,residu:[10,11],result:[2,3,6,10,11,12],rgb:2,right:3,risk:11,root:16,run:[2,8,13,16],same:[2,5,14,16],sampl:5,save:7,scale:[10,11],scatter:6,scikit:6,sdss:[8,16],sdss_local_sas_mirror:16,search:8,second:[3,6],section:[8,17],see:[8,10,11],select:16,sensit:[10,11],separ:3,sepctra:6,seper:4,seri:16,set:[6,10,11,12,16],setup:[8,16],shape:[2,11],should:[6,10,11,12,13,16],shown:6,shuffl:5,similar:16,sinc:[10,11],singl:[2,4],sklearn:6,snr:6,snr_high:6,snr_low:6,solut:2,some:[7,8,13,16],someth:13,sourc:3,spec:17,spec_var:17,special:12,specifi:[2,10,11],spectra:[2,3,6,7],spectra_err:3,spectra_onli:6,spectra_recon:12,spectra_var:[2,17],spectro:16,spectrum:2,split:[2,6],standard:5,star:[0,4,6,16],starflagcut:6,starnet:[0,1,7,8,9,12],starnet_net:14,start:2,stellar:[2,8],still:[8,16],store:16,str:4,structur:7,submodul:[1,9],subpackag:9,subset:8,supervisor:[0,8],suppli:11,support:16,sure:[10,11,17],surfac:[3,7],swap:3,system:16,tag:3,take:[6,7,17],target:[5,6,8,10,11],target_convers:5,task:[10,11],teff:6,teff_high:6,teff_low:6,tensorflow:16,test:[5,6,7,10,11,12,13,16],test_encod:[5,12],test_label:5,test_pred_error:5,test_predict:5,test_siz:6,tga:4,tgas_load:[4,18],tgas_sourc:16,tgassource_000:16,them:[4,6,8,10,11],theori:[10,11,12],thi:[0,5,8,10,11,12,13,16,17],those:[8,10,11,18],thread:[6,7],ti2:6,tick_param:12,time:6,timedistributedmean:5,too:2,tool:[2,8,16],top:16,topolog:5,toronto:[2,3,4,5,8],tqdm:16,train:[5,6,7,8,10,11,12,13],train_test_split:6,transist:7,tune:13,tutori:[7,10,11,12,13],two:3,type:13,uncertainti:[0,2,7,8,11],under:16,undergrad:8,undergradu:8,undistorted_loss:5,univers:[2,3,4,5,8],unnessari:7,uoft:3,updat:[2,4,5,8,16],upper:6,usag:7,use:[2,3,4,6,10,11,12,13,16,17],use_anderson_2017:6,use_apoge:6,use_esa_gaia:6,used:[3,16],useful:4,uses:10,using:[6,8,16,17],utoronto:8,vae:[1,9],vae_loss:5,vae_net:12,valu:[2,11,12],variabl:[2,4,6,16],variat:[5,8],variou:8,veloc:6,verbos:2,via:[7,10,11,12,14],visit:[2,6],visit_spectra:2,visual:7,volta:16,vram:16,vscattercut:6,want:[3,10,11],wavelegnth_solut:2,wavelength:2,wavelength_solut:2,websit:16,when:[3,17],where:[10,11],whether:[4,6],which:[2,10,11,13,16],width:12,window:[8,16],without:[2,6],won:16,work:[2,8],written:[2,3,4,5],wrong:7,x_data:5,x_decoded_mean:5,x_re:12,x_test:[5,6,10,11,12,13],x_train:[5,6,10,11,12],xlabel:12,xma:7,xmatch:[1,9],y_data:5,y_pred:5,y_test:[6,10,11,12,13],y_train:[5,6,10,11,12],y_true:5,year:7,ylabel:12,you:[3,6,8,10,11,12,13,14,16,17],your:6,yourself:[10,11],z_log_var:5,z_mean:5,zero:11},titles:["Acknowledgments","astroNN package","astroNN.apogee package","astroNN.datasets package","astroNN.gaia package","astroNN.models package","Compiling and Loading APOGEE and Gaia Datasets","Updates History","Welcome to astroNN's documentation!","astroNN","Bayesian Convolutional Neural Network","Convolutional Neural Network","Convolutional Variational Autoencoder","Neural Network","StarNet (arXiv:1709.09182)","Variational Autoencoder Demo","Getting Started","Mini Tools for APOGEE data","Mini Tools for GAIA data"],titleterms:{The:11,acknowledg:0,analysi:[10,11,12],anderson:18,apoge:[2,6,10,11,12,17],apogee_rc:3,apogee_shar:2,apokasc:3,arxiv:14,aspcap:11,aspcap_residue_plot:[10,11],astronn:[1,2,3,4,5,8,9,10,13],author:8,autoencod:[12,15],bayesian:10,bayesian_cnn:5,calcul:10,cannon:[2,11],chip:2,cnn:[5,11],compil:6,content:[1,2,3,4,5],continuum:17,convolut:[10,11,12],data:[17,18],dataset:[3,6],demo:15,demonstr:8,document:8,doe:10,donwnload:18,download:[2,4],driven:18,exampl:[10,11,12],folder:[13,16],from:[10,18],gaia:[4,6,18],gaia_shar:4,gener:13,get:[8,16],histori:7,how:10,improv:18,indic:8,jacobian:[10,11],label:11,latent:12,list:8,load:[6,13],loader:18,mini:[17,18],model:[5,18],models_shar:5,modul:[1,2,3,4,5],network:[10,11,13],neural:[10,11,13],normal:17,packag:[1,2,3,4,5],parallax:18,pesudo:17,plot:[10,11,12],plot_lat:12,predict:11,prerequisit:16,reconstruct:12,space:12,spectra:[10,11,12,17],star:18,starnet:[5,14],start:[8,16],structur:16,submodul:[2,3,4,5],subpackag:1,tabl:8,tga:18,tool:[17,18],tutori:8,uncertainti:10,updat:7,using:[10,11,12],vae:[5,12],variat:[12,15],welcom:8,xmatch:3}})

diff --git a/docs/astroNN.models.html b/docs/astroNN.models.html
@@ -346,17 +346,17 @@ HISTORY:</p>
 
 <dl class="method">
 <dt id="astroNN.models.models_shared.ModelStandard.pre_training_checklist">
-<code class="descname">pre_training_checklist</code><span class="sig-paren">(</span><em>x_data</em>, <em>y_data</em><span class="sig-paren">)</span><a class="headerlink" href="#astroNN.models.models_shared.ModelStandard.pre_training_checklist" title="Permalink to this definition">¶</a></dt>
+<code class="descname">pre_training_checklist</code><span class="sig-paren">(</span><em>x_train</em>, <em>y_train</em><span class="sig-paren">)</span><a class="headerlink" href="#astroNN.models.models_shared.ModelStandard.pre_training_checklist" title="Permalink to this definition">¶</a></dt>
 <dd></dd></dl>
 
 <dl class="method">
 <dt id="astroNN.models.models_shared.ModelStandard.test">
-<code class="descname">test</code><span class="sig-paren">(</span><em>x</em><span class="sig-paren">)</span><a class="headerlink" href="#astroNN.models.models_shared.ModelStandard.test" title="Permalink to this definition">¶</a></dt>
+<code class="descname">test</code><span class="sig-paren">(</span><em>x_test</em><span class="sig-paren">)</span><a class="headerlink" href="#astroNN.models.models_shared.ModelStandard.test" title="Permalink to this definition">¶</a></dt>
 <dd></dd></dl>
 
 <dl class="method">
 <dt id="astroNN.models.models_shared.ModelStandard.train">
-<code class="descname">train</code><span class="sig-paren">(</span><em>x</em>, <em>y</em><span class="sig-paren">)</span><a class="headerlink" href="#astroNN.models.models_shared.ModelStandard.train" title="Permalink to this definition">¶</a></dt>
+<code class="descname">train</code><span class="sig-paren">(</span><em>x_train</em>, <em>y_train</em><span class="sig-paren">)</span><a class="headerlink" href="#astroNN.models.models_shared.ModelStandard.train" title="Permalink to this definition">¶</a></dt>
 <dd></dd></dl>
 
 </dd></dl>

diff --git a/docs/neuralnets/CNN.html b/docs/neuralnets/CNN.html
@@ -148,8 +148,8 @@
 </div>
 <div class="section" id="example-plots-using-aspcap-residue-plot">
 <h2>Example Plots using aspcap_residue_plot<a class="headerlink" href="#example-plots-using-aspcap-residue-plot" title="Permalink to this headline">¶</a></h2>
-<img alt="../_images/logg_test.png" src="../_images/logg_test.png" />
-<img alt="../_images/teff_test.png" src="../_images/teff_test.png" />
+<img alt="../_images/logg_test1.png" src="../_images/logg_test1.png" />
+<img alt="../_images/teff_test1.png" src="../_images/teff_test1.png" />
 </div>
 <div class="section" id="aspcap-labels-prediction-using-cnn-vs-the-cannon-2">
 <h2>ASPCAP labels prediction using CNN vs The Cannon 2<a class="headerlink" href="#aspcap-labels-prediction-using-cnn-vs-the-cannon-2" title="Permalink to this headline">¶</a></h2>
@@ -157,8 +157,8 @@
 </div>
 <div class="section" id="example-plots-using-jacobian">
 <h2>Example Plots using jacobian<a class="headerlink" href="#example-plots-using-jacobian" title="Permalink to this headline">¶</a></h2>
-<img alt="neuralnets/cnn_apogee/Cl_jacobian.png" src="neuralnets/cnn_apogee/Cl_jacobian.png" />
-<img alt="neuralnets/cnn_apogee/Na_jacobian.png" src="neuralnets/cnn_apogee/Na_jacobian.png" />
+<img alt="../_images/Cl_jacobian.png" src="../_images/Cl_jacobian.png" />
+<img alt="../_images/Na_jacobian.png" src="../_images/Na_jacobian.png" />
 </div>
 </div>
 

diff --git a/docs/neuralnets/BCNN.html b/docs/neuralnets/BCNN.html
@@ -160,8 +160,8 @@
 </div>
 <div class="section" id="example-plots-using-aspcap-residue-plot">
 <h2>Example Plots using aspcap_residue_plot<a class="headerlink" href="#example-plots-using-aspcap-residue-plot" title="Permalink to this headline">¶</a></h2>
-<img alt="../_images/logg_test1.png" src="../_images/logg_test1.png" />
-<img alt="../_images/teff_test1.png" src="../_images/teff_test1.png" />
+<img alt="../_images/logg_test.png" src="../_images/logg_test.png" />
+<img alt="../_images/teff_test.png" src="../_images/teff_test.png" />
 </div>
 <div class="section" id="example-plots-using-jacobian">
 <h2>Example Plots using jacobian<a class="headerlink" href="#example-plots-using-jacobian" title="Permalink to this headline">¶</a></h2>

diff --git a/astroNN/models/models_shared.py b/astroNN/models/models_shared.py
@@ -194,7 +194,7 @@ class ModelStandard(ABC):
 
         return bayes_crossentropy
 
-    def pre_training_checklist(self, x_data, y_data):
+    def pre_training_checklist(self, x_train, y_train):
         if self.fallback_cpu is True:
             cpu_fallback()
 
@@ -211,33 +211,36 @@ class ModelStandard(ABC):
             self.optimizer = Adam(lr=self.lr, beta_1=self.beta_1, beta_2=self.beta_2, epsilon=self.optimizer_epsilon,
                                   decay=0.0)
 
+        x_train_norm, y_train_norm = np.array(x_train), np.array(y_train)
+
         if self.data_normalization is True:
+
             # do not include -9999 in mean and std calculation and do not normalize those elements because
             # astroNN is designed to ignore -9999. only
-            mean_labels = np.zeros(y_data.shape[1])
-            std_labels = np.ones(y_data.shape[1])
-            for i in range(y_data.shape[1]):
-                not9999 = np.where(y_data[:, i] != -9999.)[0]
-                mean_labels[i] = np.median((y_data[:, i])[not9999], axis=0)
-                std_labels[i] = np.std((y_data[:, i])[not9999], axis=0)
-                (y_data[:, i])[not9999] -= mean_labels[i]
-                (y_data[:, i])[not9999] /= std_labels[i]
+            mean_labels = np.zeros(y_train_norm.shape[1])
+            std_labels = np.ones(y_train_norm.shape[1])
+            for i in range(y_train_norm.shape[1]):
+                not9999 = np.where(y_train_norm[:, i] != -9999.)[0]
+                mean_labels[i] = np.median((y_train_norm[:, i])[not9999], axis=0)
+                std_labels[i] = np.std((y_train_norm[:, i])[not9999], axis=0)
+                (y_train_norm[:, i])[not9999] -= mean_labels[i]
+                (y_train_norm[:, i])[not9999] /= std_labels[i]
             mu_std = np.vstack((mean_labels, std_labels))
             np.save(self.fullfilepath + 'meanstd.npy', mu_std)
             np.save(self.fullfilepath + 'targetname.npy', self.target)
 
-            x_mu_std = np.vstack((np.median(x_data), np.std(x_data)))
+            x_mu_std = np.vstack((np.median(x_train), np.std(x_train)))
             np.save(self.fullfilepath + 'meanstd_x.npy', x_mu_std)
 
-            x_data -= x_mu_std[0]
-            x_data /= x_mu_std[1]
+            x_train_norm -= x_mu_std[0]
+            x_train_norm /= x_mu_std[1]
 
-        self.input_shape = (x_data.shape[1], 1,)
-        self.output_shape = (y_data.shape[1], 1,)
+        self.input_shape = (x_train_norm.shape[1], 1,)
+        self.output_shape = (x_train_norm.shape[1], 1,)
 
         self.hyperparameter_writer()
 
-        return x_data, y_data
+        return x_train_norm, y_train_norm
 
     def model_existence(self):
         if self.keras_model is None:
@@ -378,18 +381,21 @@ class ModelStandard(ABC):
         pass
 
     @abstractmethod
-    def train(self, x, y):
-        x, y = self.pre_training_checklist(x, y)
-        return x, y
+    def train(self, x_train, y_train):
+        x_train_normalized, y_train_normalized = self.pre_training_checklist(x_train, y_train)
+        return x_train_normalized, y_train_normalized
 
     @abstractmethod
-    def test(self, x):
+    def test(self, x_test):
+        # Prevent shallow copy issue
+        x_data = np.array(x_test)
+
         mustd_x = np.load(self.fullfilepath + '/meanstd_x.npy')
-        x -= mustd_x[0]
-        x /= mustd_x[1]
-        x = np.atleast_3d(x)
+        x_data -= mustd_x[0]
+        x_data /= mustd_x[1]
+        x_data = np.atleast_3d(x_data)
         self.model_existence()
-        return x
+        return x_data
 
     def aspcap_residue_plot(self, test_predictions, test_labels, test_pred_error):
         import pylab as plt
